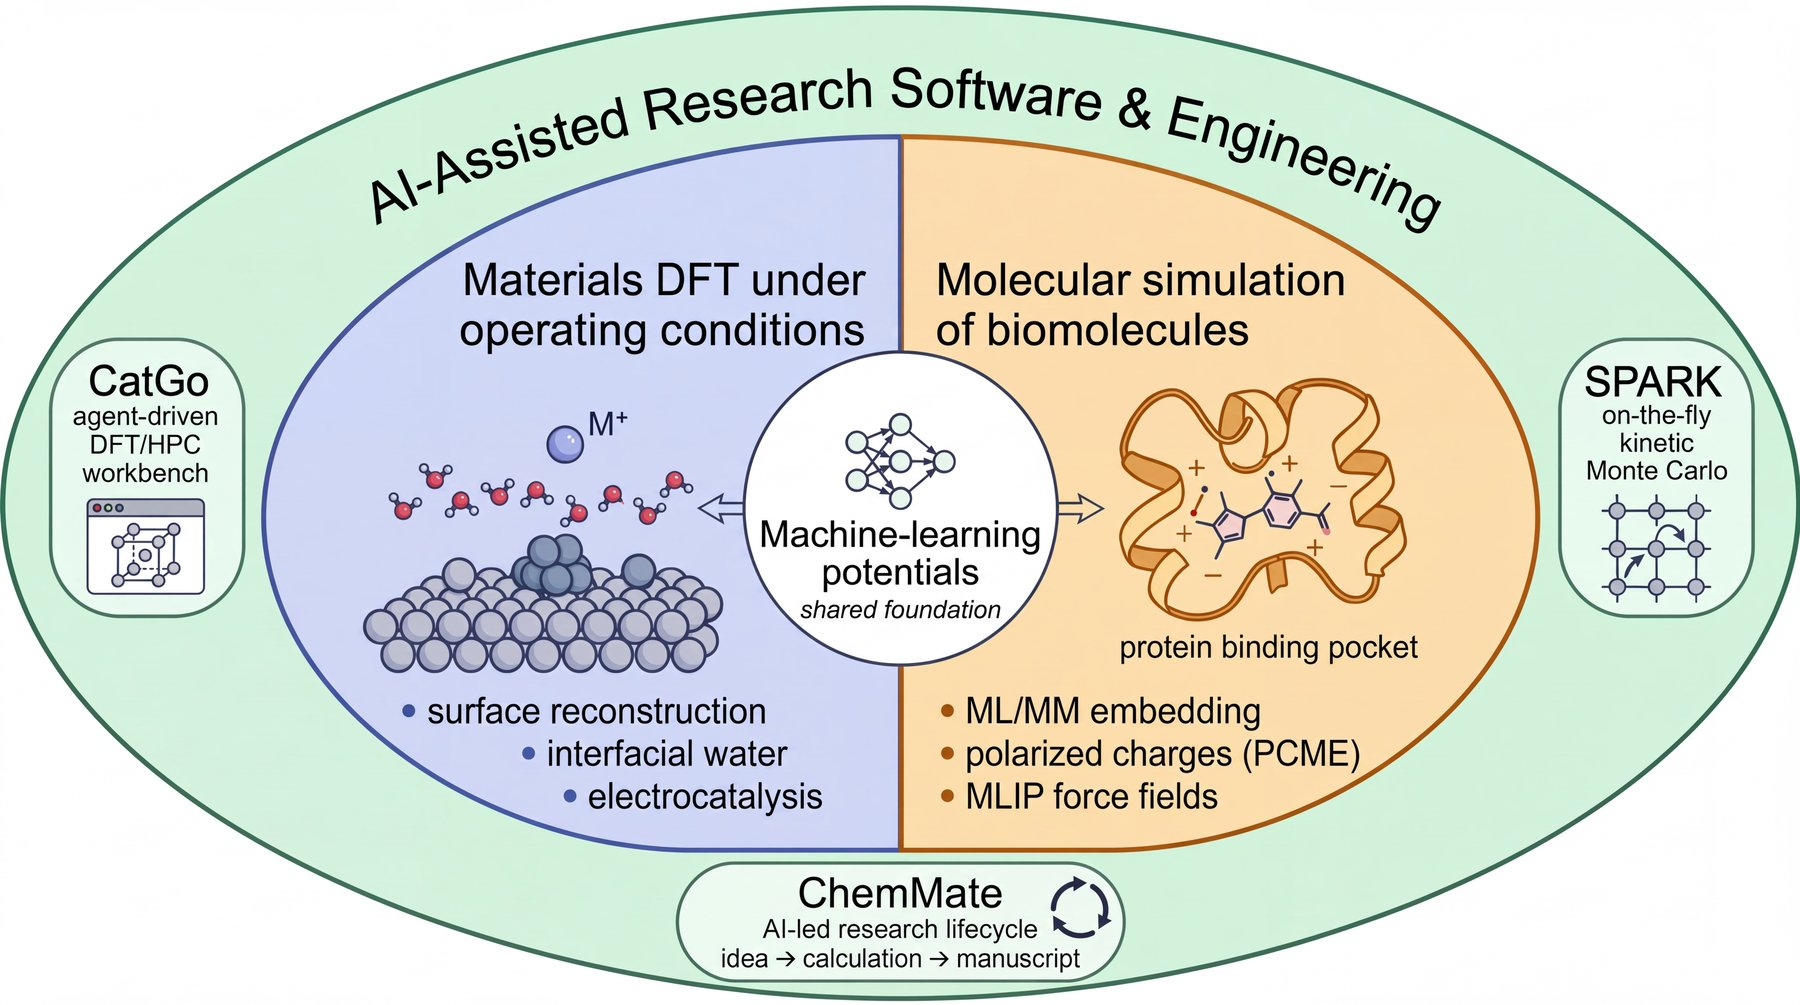
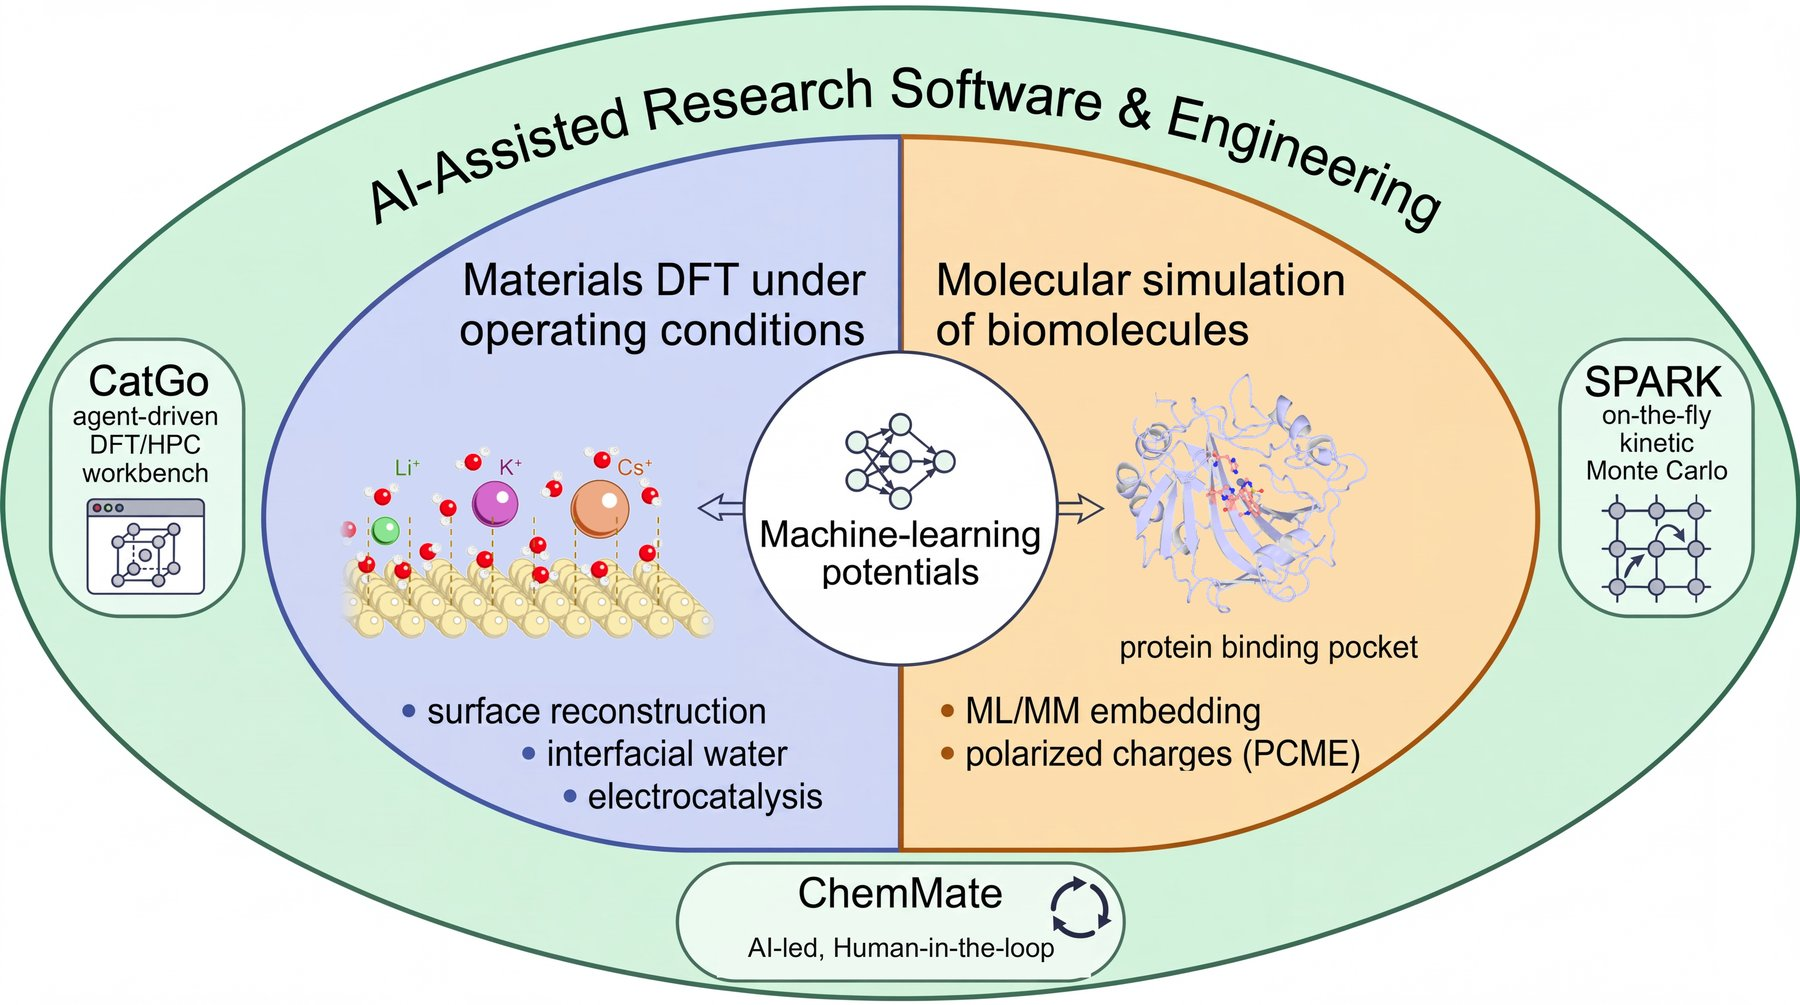
Updated research overview figure

diff --git a/index.html b/index.html
@@ -95,7 +95,7 @@
 <nav><div class="in">
   <a class="brand" href="#top">Leshen Zhang</a>
   <a href="#education">Education</a><a href="#research">Research</a><a href="#publications">Publications</a>
-  <a href="#software">Software</a><a href="#awards">Awards</a><a href="cv/Leshen_Zhang_CV.pdf?v=ef5fe7b9" data-goatcounter-click="cv-pdf">CV</a>
+  <a href="#software">Software</a><a href="#awards">Awards</a><a href="cv/Leshen_Zhang_CV.pdf?v=a030aa18" data-goatcounter-click="cv-pdf">CV</a>
 </div></nav>
 <main id="top">
 
@@ -110,7 +110,7 @@
         Research Assistant, <a href="https://www.chemistry.ucla.edu/" class="nb">UC Los Angeles</a><br>
         <div class="email"><span>Email:</span><span><a href="mailto:zhangls23@m.fudan.edu.cn">zhangls23@m.fudan.edu.cn</a><br><a href="mailto:leshen.zhang.cn@gmail.com">leshen.zhang.cn@gmail.com</a></span></div>
         <div class="links">
-          <a href="cv/Leshen_Zhang_CV.pdf?v=ef5fe7b9" data-goatcounter-click="cv-pdf">CV</a> /
+          <a href="cv/Leshen_Zhang_CV.pdf?v=a030aa18" data-goatcounter-click="cv-pdf">CV</a> /
           <a href="https://scholar.google.com/citations?user=KiEU9eoAAAAJ">Google Scholar</a> /
           <a href="https://orcid.org/0009-0008-9143-6737">ORCID</a> /
           <a href="https://github.com/leshenzhang">GitHub</a>
@@ -170,7 +170,7 @@
 <section id="research">
   <h2>Research</h2>
   <figure>
-    <img src="assets/research_overview.jpg" alt="Research overview: materials DFT under operating conditions and molecular simulation of biomolecules share machine-learning potentials, supported by AI-assisted research software (CatGo, ChemMate, SPARK).">
+    <img src="assets/research_overview.jpg" alt="Research overview: materials DFT under operating conditions and molecular simulation of biomolecules are linked by machine-learning potentials, supported by AI-assisted research software (CatGo, ChemMate, SPARK).">
     <figcaption>Two scientific cores sharing machine-learning potentials, built on AI-assisted research infrastructure.</figcaption>
   </figure>
 <h3>I. First-Principles Calculations for Materials and Catalysis</h3>
@@ -229,7 +229,7 @@
   </ul>
 </section>
 </main>
-<footer>© Leshen Zhang · Last updated October 2026 · <a href="cv/Leshen_Zhang_CV.pdf?v=ef5fe7b9" data-goatcounter-click="cv-pdf">CV (PDF)</a></footer>
+<footer>© Leshen Zhang · Last updated October 2026 · <a href="cv/Leshen_Zhang_CV.pdf?v=a030aa18" data-goatcounter-click="cv-pdf">CV (PDF)</a></footer>
 <!-- Visit tracker (GoatCounter). Per-recipient links: https://leshenzhang.github.io/?ref=<name> -->
 <script data-goatcounter="https://leshenzhang.goatcounter.com/count" async src="https://gc.zgo.at/count.js"></script>
 </body>

diff --git a/template.html b/template.html
@@ -166,7 +166,7 @@
 <section id="research">
   <h2>Research</h2>
   <figure>
-    <img src="assets/research_overview.jpg" alt="Research overview: materials DFT under operating conditions and molecular simulation of biomolecules share machine-learning potentials, supported by AI-assisted research software (CatGo, ChemMate, SPARK).">
+    <img src="assets/research_overview.jpg" alt="Research overview: materials DFT under operating conditions and molecular simulation of biomolecules are linked by machine-learning potentials, supported by AI-assisted research software (CatGo, ChemMate, SPARK).">
     <figcaption>Two scientific cores sharing machine-learning potentials, built on AI-assisted research infrastructure.</figcaption>
   </figure>
 {{RESEARCH}}

diff --git a/cv/main.tex b/cv/main.tex
@@ -14,7 +14,7 @@
 \newcommand{\eq}{\textsuperscript{\textdaggerdbl}}
 \name{Leshen Zhang}
 \address{{\small \faEnvelope[regular]~\href{mailto:zhangls23@m.fudan.edu.cn}{zhangls23@m.fudan.edu.cn}}}
-\address{{\small \faOrcid~\href{https://orcid.org/0009-0008-9143-6737}{0009-0008-9143-6737}\quad \faGithub~\href{https://github.com/leshenzhang}{leshenzhang}\quad \faGlobe~\href{https://leshenzhang.github.io/}{leshenzhang.github.io}\quad \faGraduationCap~\href{https://scholar.google.com/citations?user=KiEU9eoAAAAJ}{Google Scholar}}}
+\address{{\small \faOrcid~\href{https://orcid.org/0009-0008-9143-6737}{0009-0008-9143-6737} \quad \faGlobe~\href{https://leshenzhang.github.io/}{leshenzhang.github.io}\quad \faGraduationCap~\href{https://scholar.google.com/citations?user=KiEU9eoAAAAJ}{Google Scholar}}}
 \usepackage{fontawesome5}
 
 \def\nameskip{\vspace{0pt}}\def\addressskip{\vspace{0pt}} % tighter header so two contact lines keep the CV at 3 pages
